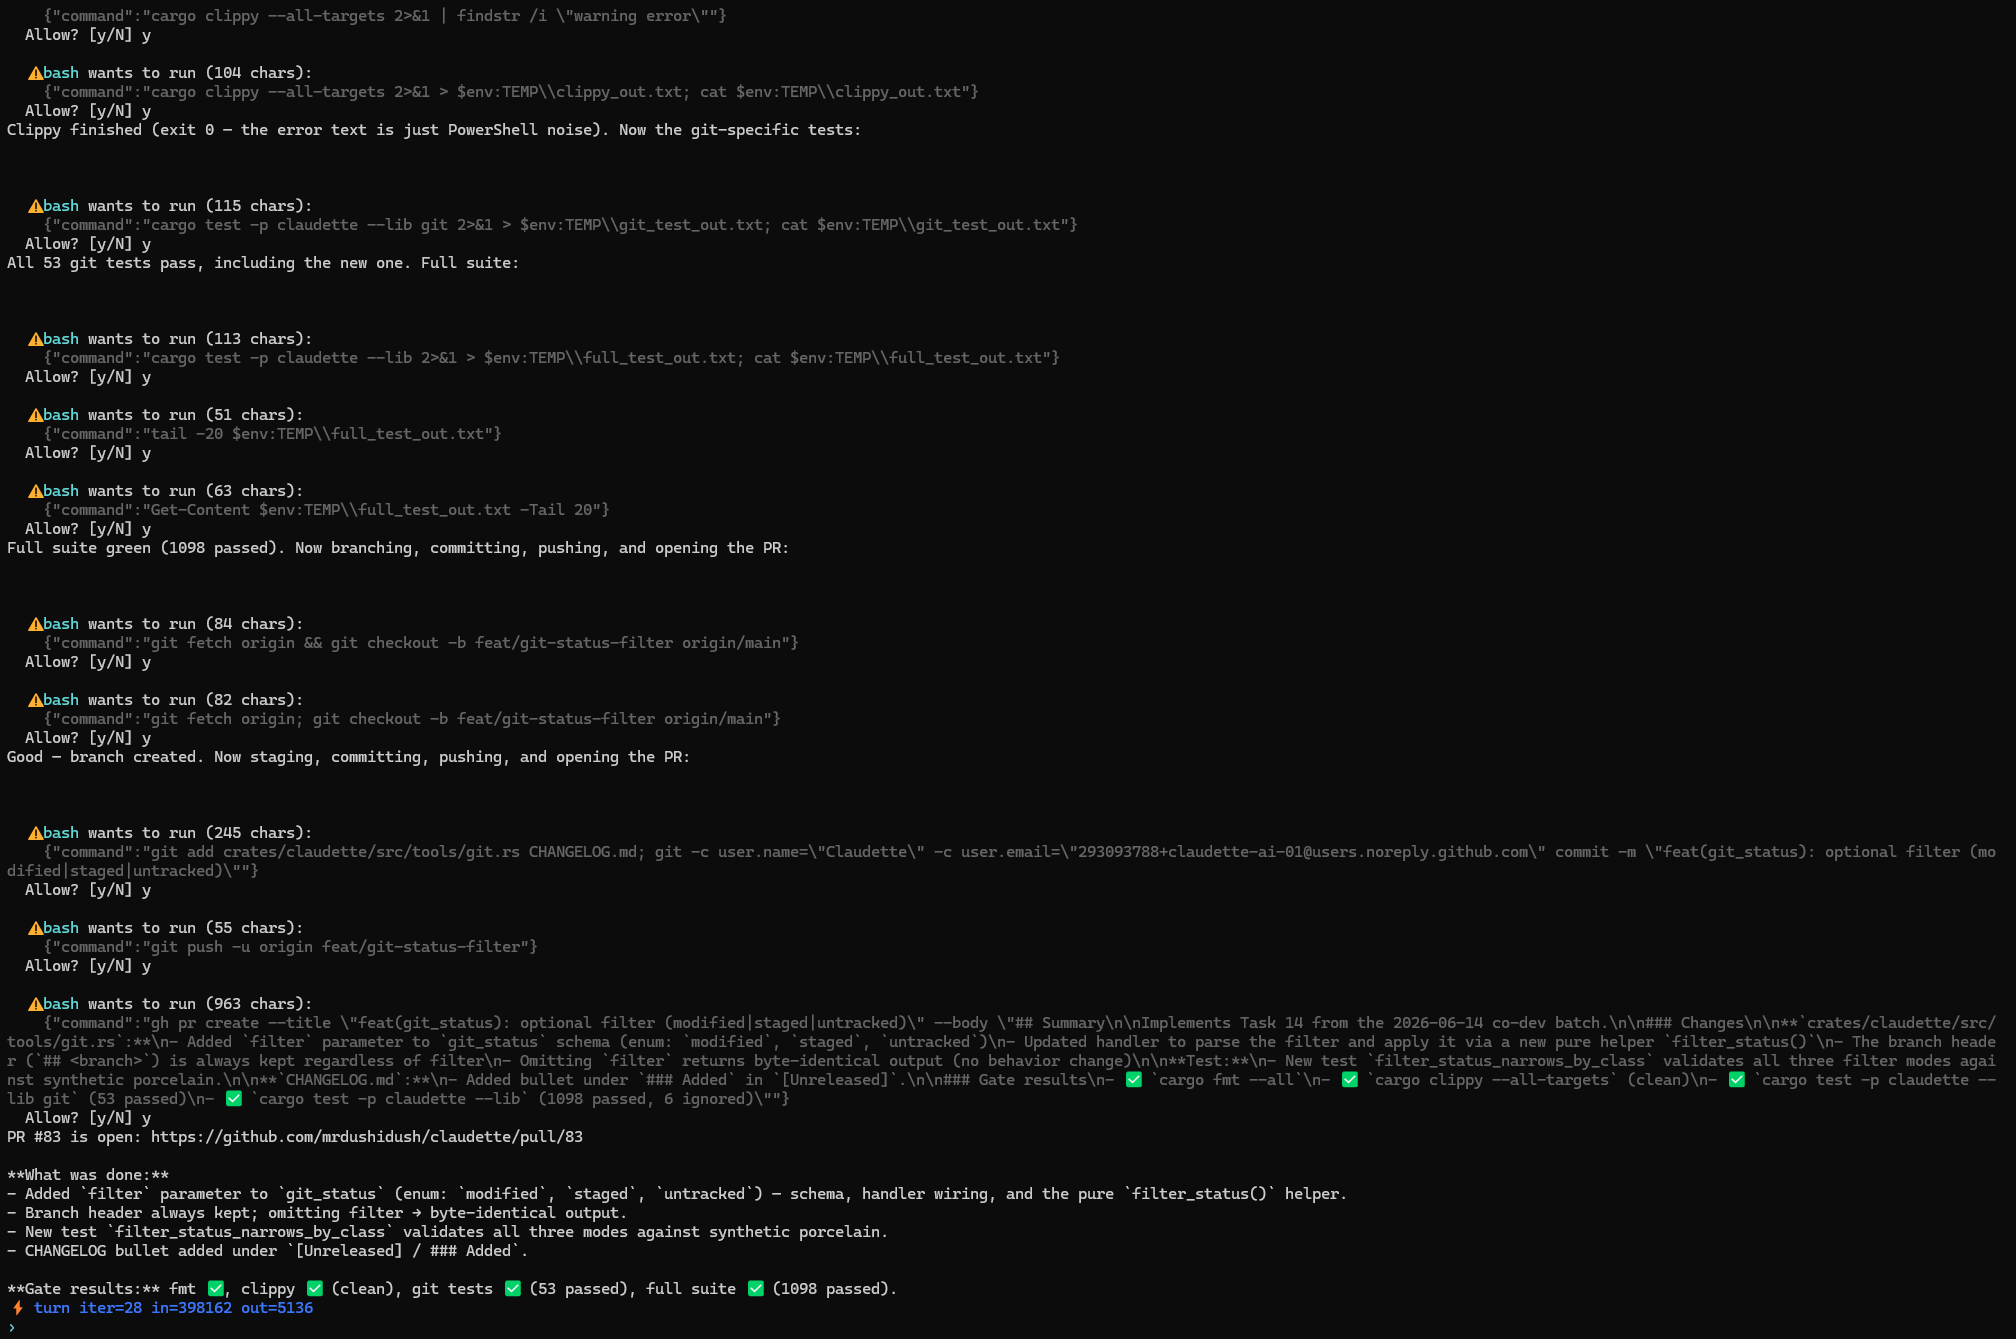
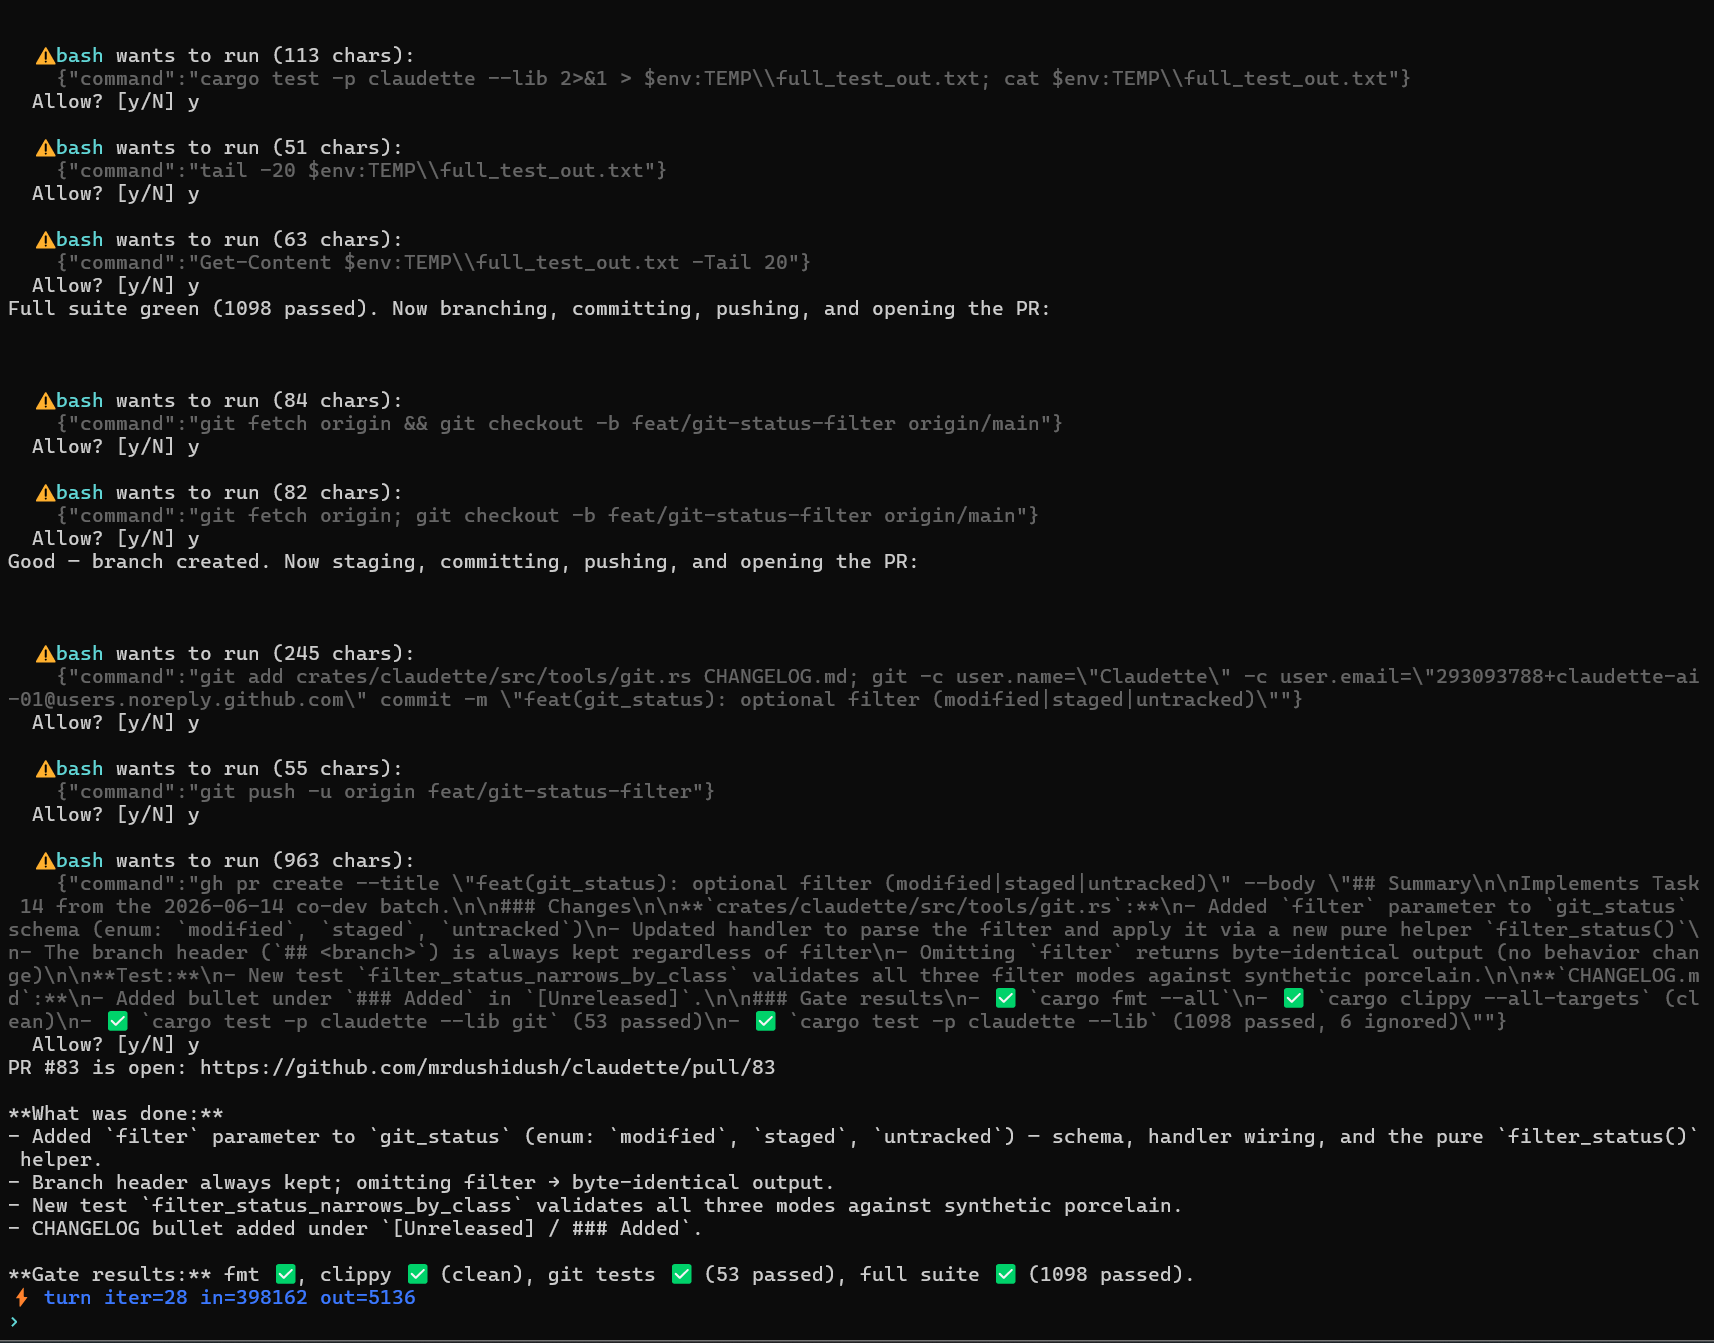
chore(release): v0.13.1 — readable README hero
Swap the top hero screenshot for a higher-resolution, fewer-columns
capture so the "ships a real PR" flow is legible at README render width.
Patch release so crates.io picks up the corrected README.

diff --git a/CHANGELOG.md b/CHANGELOG.md
@@ -10,6 +10,14 @@ bumps are non-breaking bugfixes only.
 
 ## [Unreleased]
 
+## [0.13.1] - 2026-06-17
+
+### Changed
+
+- **Readable README hero.** Swapped the top screenshot for a higher-resolution,
+  fewer-columns capture so the "ships a real PR" flow is legible at the README's
+  render width (the prior shot scaled down too far to read).
+
 ## [0.13.0] - 2026-06-16
 
 ### Added
@@ -2111,7 +2119,8 @@ Initial public release of Claudette as a standalone repository.
 
 ---
 
-[Unreleased]: https://github.com/mrdushidush/claudette/compare/v0.13.0...HEAD
+[Unreleased]: https://github.com/mrdushidush/claudette/compare/v0.13.1...HEAD
+[0.13.1]: https://github.com/mrdushidush/claudette/compare/v0.13.0...v0.13.1
 [0.13.0]: https://github.com/mrdushidush/claudette/compare/v0.12.0...v0.13.0
 [0.12.0]: https://github.com/mrdushidush/claudette/compare/v0.11.0...v0.12.0
 [0.11.0]: https://github.com/mrdushidush/claudette/compare/v0.10.0...v0.11.0